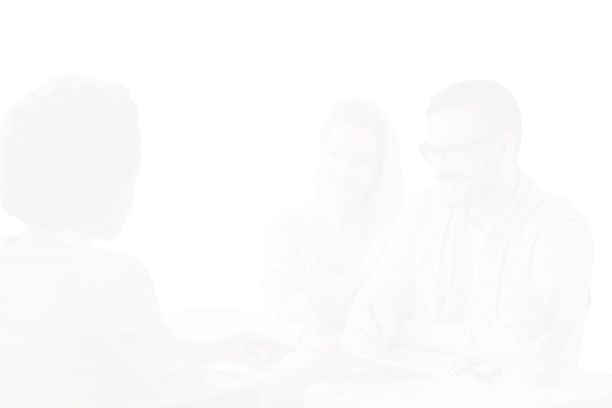
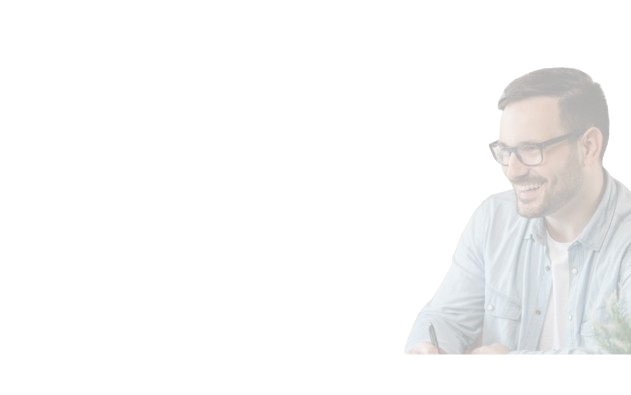
Done

Changed region(s): [[0.652, 0.1519, 1.0, 0.9114]]

diff --git a/src/components/Home/Home.scss b/src/components/Home/Home.scss
@@ -3,9 +3,16 @@
     flex-direction: column;
     justify-content: center;
     align-items: center;
+    position: relative;
     padding: 50px;
     gap: 50px;
     background: linear-gradient(to bottom right, rgba(253, 255, 255, 0.4), rgba(212, 246, 251, 0.4), rgba(253, 255, 255, 0.4), rgba(212, 246, 251, 0.4));
+}
+
+@media screen and (min-width: 1300px) and (min-height: 1200px) {
+    .home {
+        height: 100vh;
+    }
 }
 
 @media screen and (max-width: 500px) {
@@ -21,6 +28,7 @@
 }
 
 .hero-section {
+    position: relative;
     width: 100%;
     position: relative;
     display: flex;
@@ -35,17 +43,26 @@
     gap: 35px;
 }
 
+@media screen and (max-width: 850px) {
+    .form-logo-wrapper {
+        gap: 80px;
+    }
+}
+
 @media screen and (max-width: 768px) {
     .hero-section {
         height: 100%;
     }
 }
 
-.happy-man {
+.happy-man-wrapper {
     position: absolute;
+}
+
+.happy-man {
     width: 100%;
     height: 100%;
-    mask-image: linear-gradient(to top right, transparent 1%, black 78%);
+    mask-image: linear-gradient(to top left, transparent 15%, black 78%);
 }
 
 .main {
@@ -75,72 +92,14 @@
     transform: matrix(0.8, 0, 2.0, 1.2, 60, 10);
 }
 
-// .main-image-gradient {
-//     position: absolute;
-//     bottom: 0;
-//     left: 0;
-//     width: 100%;
-//     height: 80%;
-//     background: linear-gradient(to right, 
-//     rgba(255, 255, 255, 0.000), 
-//     rgba(255, 255, 255, 0.050), 
-//     rgba(255, 255, 255, 0.100), 
-//     rgba(255, 255, 255, 0.150), 
-//     rgba(255, 255, 255, 0.200), 
-//     rgba(255, 255, 255, 0.250), 
-//     rgba(255, 255, 255, 0.300), 
-//     rgba(255, 255, 255, 0.350), 
-//     rgba(255, 255, 255, 0.400), 
-//     rgba(255, 255, 255, 0.450), 
-//     rgba(255, 255, 255, 0.500), 
-//     rgba(255, 255, 255, 0.550), 
-//     rgba(255, 255, 255, 0.600), 
-//     rgba(255, 255, 255, 0.650), 
-//     rgba(255, 255, 255, 0.700), 
-//     rgba(255, 255, 255, 0.750), 
-//     rgba(255, 255, 255, 0.800), 
-//     rgba(255, 255, 255, 0.850), 
-//     rgba(255, 255, 255, 0.900), 
-//     rgba(255, 255, 255, 0.950), 
-//     rgba(255, 255, 255, 1), 
-//     rgba(255, 255, 255, 0.950), 
-//     rgba(255, 255, 255, 0.900), 
-//     rgba(255, 255, 255, 0.850), 
-//     rgba(255, 255, 255, 0.800), 
-//     rgba(255, 255, 255, 0.750), 
-//     rgba(255, 255, 255, 0.700), 
-//     rgba(255, 255, 255, 0.650), 
-//     rgba(255, 255, 255, 0.600), 
-//     rgba(255, 255, 255, 0.550), 
-//     rgba(255, 255, 255, 0.500), 
-//     rgba(255, 255, 255, 0.450), 
-//     rgba(255, 255, 255, 0.400), 
-//     rgba(255, 255, 255, 0.350), 
-//     rgba(255, 255, 255, 0.300), 
-//     rgba(255, 255, 255, 0.250), 
-//     rgba(255, 255, 255, 0.200), 
-//     rgba(255, 255, 255, 0.150), 
-//     rgba(255, 255, 255, 0.100), 
-//     rgba(255, 255, 255, 0.050), 
-//     rgba(255, 255, 255, 0.000));
-//     transform: matrix(0.8, 0, 2.0, 1.2, 60, 10);
-// }
-
 .main-image {
-    // position: absolute;
-    // right: 300px;
-    // top: 150px;
     width: 300px;
     height: 400px;
     mask-image: linear-gradient(#000, transparent);
 }
 
 .logo {
-    width: 150px;
-    // height: 50px;
-    // position: absolute;
-    // left: 50px;
-    // top: 30px;
+    width: 230px;
 }
 
 .logo-form-wrapper {

diff --git a/src/components/Form/Form.jsx b/src/components/Form/Form.jsx
@@ -1,12 +1,16 @@
-import React from 'react'
+import React, { useState, useEffect } from 'react'
 import './Form.scss'
 
 function Form({ firstForm, handleClick }) {
+  const styles = ({
+    background: 'linear-gradient(to top right, #1EDFEC 5%, #121F20 95%)',
+    color: 'white'
+  })
   return (
     <div className='my-form-wrapper'>
       {firstForm ?
-        <form className="my-form">
-          <h4 className='my-form-header'>You're Pre-Selected up to <span>$100,000</span></h4>
+        <form className="my-form" style={styles}>
+          <h4 className='my-form-header' style={{fontSize: '20px'}}>You're Pre-Selected up to <span>$100,000</span></h4>
           <div style={{display: 'flex', flexDirection: 'column', gap: '10px', width: '100%'}}>
             <label htmlFor='email' aria-label='email'>Email</label>
             <input id='email' name='email' className='my-form-input-elements' type='text' placeholder='Enter your email' />
@@ -17,16 +21,15 @@ function Form({ firstForm, handleClick }) {
               -
               <input id='mailer-code2' className='my-form-input-elements' type='text' placeholder='Code' style={{width: '100%'}} />
           </div>
-          <button className='btn' onClick={(event) => handleClick(event)}>REDEEM OFFER</button>
+          <button className='btn2' onClick={(event) => handleClick(event)}>REDEEM OFFER</button>
           <div style={{display: 'flex', width: '100%', justifyContent: 'center'}}><p>This will not affect your Credit Score</p></div>
         </form> 
         
         :
         
         <form className="my-form">
-          <h4 className='my-form-header'><span>Hello Brandon,</span> Please ensure that your info on this form is correct.</h4>
+          <h4 className='my-form-header' style={{fontSize: '20px'}}><span>Hello Brandon,</span> Please ensure that your info on this form is correct.</h4>
           <div className='my-form-input'>
-
             <div className='my-form-input-div-wrapper'>
               <div className='my-form-input-div'>
                 <label htmlFor='firstname' aria-label='firstname'>First Name</label>

diff --git a/src/components/Phone/Phone.scss b/src/components/Phone/Phone.scss
@@ -1,14 +1,24 @@
 .phone-wrapper {
     display: flex;
-    flex-direction: column;
     align-items: center;
     position: absolute;
     top: 50px;
     right: 50px;
+    gap: 10px;
     z-index: 1;
 }
 
 .phone {
+    display: grid;
+    grid-template-columns: 50% 50%;
+    width: 315px;
+    background-color: white;
+    border-radius: 10px;
+    border: none;
+    padding: 0;
+}
+
+.phone2 {
     display: grid;
     grid-template-columns: 30% 70%;
     width: 200px;
@@ -24,37 +34,69 @@
     display: flex;
     align-items: center;
     justify-content: center;
+    font-size: 1.2rem;
     height: 50px;
     border-top-left-radius: 10px;
     border-bottom-left-radius: 10px;
     transition: all 0.5s;
 }
 
-.phone p {
-    font-weight: 600;
+.phone-text {
+    font-weight: 540;
     font-size: 1rem;
 }
 
-@media screen and (max-width: 400px) {
+@media screen and (max-width: 500px) {
+    .phone-wrapper {
+        left: 30px !important;
+    }
+}
+
+@media screen and (max-width: 550px) {
+    .phone-wrapper {
+        left: 50px;
+        top: 115px;
+        gap: 5px;
+    }
     .phone {
+        grid-template-columns: 100%;
+        width: 155px;
+        height: 40px;
+    }
+    .phone-text {
+        display: none;
+    }
+    .phone div .phone-text {
+        display: block;
+        font-size: 0.8rem;
+    }
+    .phone-icon {
+        border-radius: 10px;
+        height: 40px;
+        font-size: 1rem;
+    }
+    .phone2 {
         grid-template-columns: 100%;
         width: 50px;
     }
-    .phone p {
+}
+
+@media screen and (max-width: 850px) {
+    .phone {
+        grid-template-columns: 100%;
+        width: 155px;
+    }
+    .phone-text {
         display: none;
     }
-
+    .phone div .phone-text {
+        display: block;
+    }
     .phone-icon {
         border-radius: 10px;
     }
-}
-
-.phone2 p {
-    font-weight: 600;
-}
-
-@media screen and (max-width: 756px) {
     .phone2 {
-        display: none;
+        grid-template-columns: 100%;
+        width: 50px;
     }
 }

diff --git a/src/components/Home/Home.jsx b/src/components/Home/Home.jsx
@@ -6,7 +6,6 @@ import Features from '../Features/Features'
 import Footer from '../Footer/Footer'
 import Phone from '../Phone/Phone'
 import { useState } from 'react'
-import LogoVector from '../LogoVector/LogoVector'
 
 function Home() {
   const [firstForm, setFirstForm] = useState(true);
@@ -21,16 +20,17 @@ function Home() {
       <div className='home-bg-img'></div>
       <div className='home'>
         <Phone />
-        {/* <LogoVector /> */}
         <div className='main'>
           <div className='form-logo-wrapper'>
             <img className='logo' src='logo.svg' />
             <Form firstForm={firstForm} handleClick={handleClick} />
           </div>
           <div className='hero-section'>
-            <img className='happy-man' src='happy-man.png' />
+            <div className='happy-man-wrapper'>
+              <img className='happy-man' src='happy-man.png' />
+            </div>
             <div className='main-image-wrapper'>
-              <img className='main-image' src='woman.svg' />
+              <img className='main-image' src='woman.png' />
             </div>
             <Agent />
           </div>

diff --git a/src/components/Phone/Phone.jsx b/src/components/Phone/Phone.jsx
@@ -8,14 +8,20 @@ function Phone() {
     <div className='phone-wrapper'>
         <button className="phone">
             <div className="phone-icon hoverable-element">
+                <p className='phone-text'>Se Habla Esapñol</p>
+            </div>
+            <p className='phone-text'>1-412-267-0592</p>
+        </button>
+        <button className="phone2">
+            <div className="phone-icon hoverable-element">
                 <FontAwesomeIcon icon={faPhone} />
             </div>
-            <p>1-888-219-3797</p>
+            <p className='phone-text'>1-888-219-3797</p>
         </button>
-        <div className='phone2'>
+        {/* <div className='phone2'>
             <p style={{color: '#04C8E8'}}>Se Habla Español</p>
             <p>1-412-267-0592</p>
-        </div>
+        </div> */}
     </div>
   )
 }

diff --git a/src/components/Form/Form.scss b/src/components/Form/Form.scss
@@ -67,6 +67,22 @@
     background-color: #04C8E8;
     color: white;
     transition: all 0.5s;
+    cursor: pointer;
+}
+
+.btn2 {
+    width: 100%;
+    padding: 10px;
+    border-radius: 5px;
+    border: none;
+    background-color: white;
+    color: #252323;
+    transition: all 0.5s;
+    cursor: pointer;
+}
+
+.btn2:hover {
+    background-color: rgb(176, 176, 176);
 }
 
 .btn:hover {

diff --git a/index.html b/index.html
@@ -4,7 +4,7 @@
     <meta charset="UTF-8" />
     <link rel="icon" type="image/svg+xml" href="/vite.svg" />
     <meta name="viewport" content="width=device-width, initial-scale=1.0" />
-    <title>Vite + React</title>
+    <title>Clear Credit</title>
   </head>
   <body style="margin: 0px;" >
     <div id="root"></div>

diff --git a/src/components/Footer/Footer.scss b/src/components/Footer/Footer.scss
@@ -9,4 +9,5 @@ footer {
     min-height: 70px;
     background-color: #1A4048;
     color: white;
+    z-index: 999;
 }
